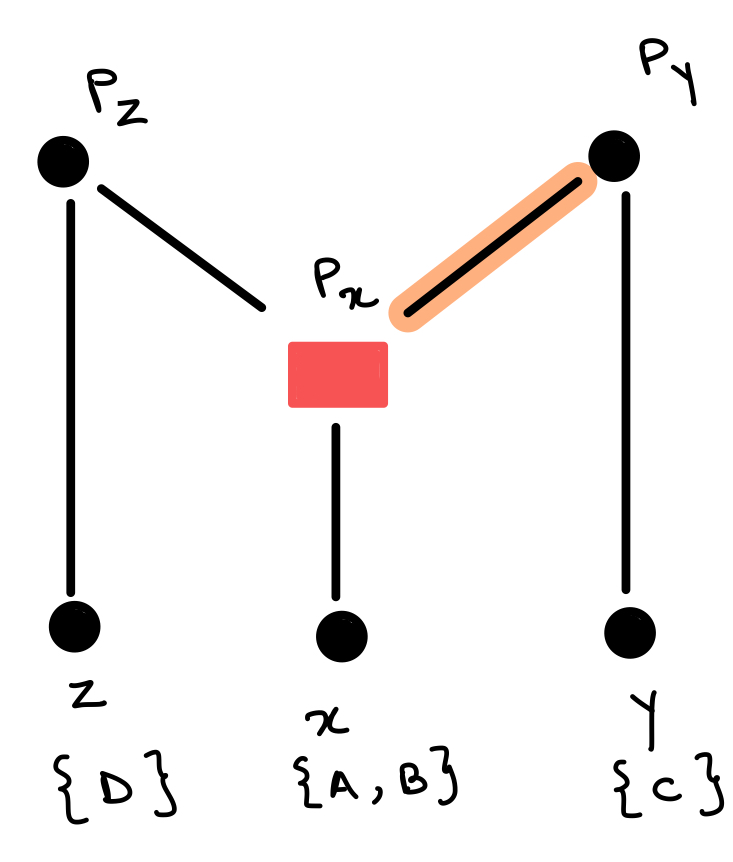
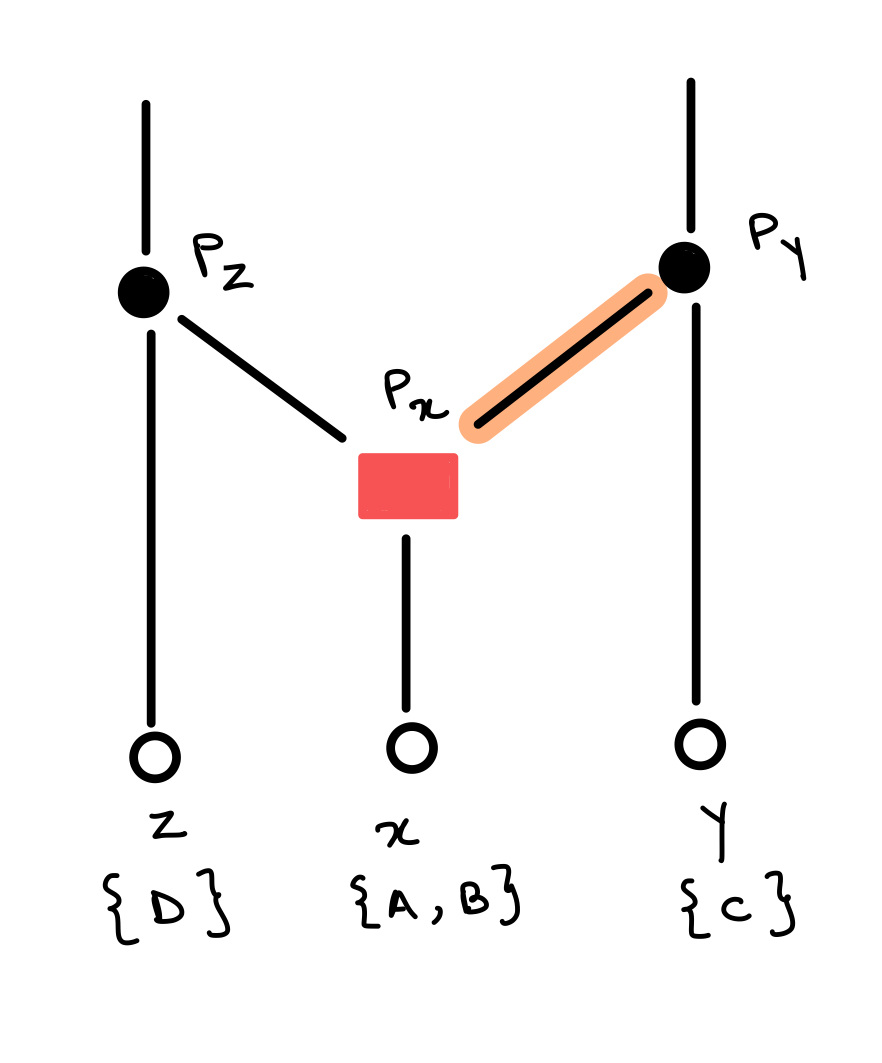
fix ret cherry definition

diff --git a/index.html b/index.html
@@ -84,7 +84,14 @@
           />
         </section>
 
-        <!-- Add vertex degree constraints -->
+        <section data-auto-animate>
+          <h3>Phylogenetic Networks</h3>
+          <p>
+            A network is a graph $G = (V,E,\rho)$ with a taxon labelling
+            function $\phi$, that only assings labels to leaf vertices.
+          </p>
+        </section>
+
         <section data-auto-animate>
           <h3>Phylogenetic Networks</h3>
           <p>binary phylogenetic networks</p>
@@ -94,7 +101,7 @@
           <h3>Phylogenetic Networks</h3>
           <p>binary phylogenetic networks</p>
           <ul>
-            <li>The root $\rho$ has out-degree $1$ and in-degree $0$</li>
+            <li>The root only has $1$ child</li>
           </ul>
         </section>
 
@@ -102,8 +109,8 @@
           <h3>Phylogenetic Networks</h3>
           <p>binary phylogenetic networks</p>
           <ul>
-            <li>The root $\rho$ has out-degree $1$ and in-degree $0$</li>
-            <li>Any reticulation $r$ has out-degree $1$ and in-degree $2$</li>
+            <li>The root only has $1$ child</li>
+            <li>Any reticulation $r$ has $2$ parents and $1$ child</li>
           </ul>
         </section>
 
@@ -233,7 +240,7 @@
           <div class="container">
             <img src="./public/simple-cherry.jpeg" width="50%" height="auto" />
             <ul>
-              <li>\( x \) and $ y $ are leaves</li>
+              <li>$x$ and $y$ are leaves</li>
             </ul>
           </div>
         </section>
@@ -250,6 +257,23 @@
         </section>
 
         <section data-auto-animate>
+          <h3>Simply Cherry</h3>
+          <div class="container">
+            <img src="./public/simple-cherry.jpeg" width="50%" height="auto" />
+            <ul>
+              <li>\( x \) and $ y $ are leaves</li>
+              <li>$ p_x $ is a tree vertex</li>
+              <li>$(x,y)$ is a simple cherry</li>
+            </ul>
+          </div>
+        </section>
+
+        <section data-auto-animate>
+          <h3>Reticulated Cherry</h3>
+          <img src="./public/phylo-network.jpeg" width="50%" height="auto" />
+        </section>
+
+        <section data-auto-animate>
           <h3>Reticulated Cherry</h3>
           <img src="./public/ret-cherry.jpeg" width="50%" height="auto" />
         </section>
@@ -259,8 +283,37 @@
           <div class="container">
             <img src="./public/ret-cherry.jpeg" width="50%" height="auto" />
             <ul>
-              <li>$ x $ and $ y $ are leaves</li>
+              <li>$ x $, $ y $ and $z$ are leaves</li>
               <li>$ p_x $ is a reticulation</li>
+            </ul>
+          </div>
+        </section>
+
+        <section data-auto-animate>
+          <h3>Reticulated Cherry</h3>
+          <div class="container">
+            <img src="./public/ret-cherry-y.jpeg" width="50%" height="auto" />
+          </div>
+        </section>
+
+        <section data-auto-animate>
+          <h3>Reticulated Cherry</h3>
+          <div class="container">
+            <img src="./public/ret-cherry-y.jpeg" width="50%" height="auto" />
+            <ul>
+              <li>$(x,y)$ is the reticulated cherry</li>
+              <li>$(p_y, p_x)$ is the middle edge</li>
+            </ul>
+          </div>
+        </section>
+
+        <section data-auto-animate>
+          <h3>Reticulated Cherry</h3>
+          <div class="container">
+            <img src="./public/ret-cherry-z.jpeg" width="50%" height="auto" />
+            <ul>
+              <li>$(x,z)$ is the reticulated cherry</li>
+              <li>$(p_z, p_x)$ is the middle edge</li>
             </ul>
           </div>
         </section>
@@ -280,15 +333,24 @@
 
         <section data-auto-animate>
           <h3>Simple Cherry</h3>
+          <img
+            src="./public/simply-cherry-picked1.jpeg"
+            width="50%"
+            height="auto"
+          />
+        </section>
+
+        <section data-auto-animate>
+          <h3>Simple Cherry</h3>
           <div class="container">
             <img
-              src="./public/simple-cherry-taxa.jpeg"
+              src="./public/simply-cherry-picked1.jpeg"
               width="50%"
               height="auto"
             />
 
             <img
-              src="./public/simple-cherry-picked.jpeg"
+              src="./public/simply-cherry-picked2.jpeg"
               width="50%"
               height="auto"
             />
@@ -312,24 +374,19 @@
 
         <section data-auto-animate>
           <h3>Reticulated Cherry</h3>
+          <img src="./public/ret-cherry-del.jpeg" width="50%" height="auto" />
+        </section>
+
+        <section data-auto-animate>
+          <h3>Reticulated Cherry</h3>
           <div class="container">
+            <img src="./public/ret-cherry-del.jpeg" width="50%" height="auto" />
             <img
-              src="./public/ret-cherry-taxa3.jpeg"
+              src="./public/ret-cherry-del2.jpeg"
               width="50%"
               height="auto"
             />
-
-            <img src="./public/ret-cherry-del.jpeg" width="50%" height="auto" />
           </div>
-        </section>
-
-        <section>
-          <h3>Reticulated Cherry</h3>
-          <img
-            src="./public/ret-cherry-reduced.jpeg"
-            width="50%"
-            height="auto"
-          />
         </section>
 
         <section data-transition-speed="zoom">
@@ -356,8 +413,20 @@
           <img src="./public/orchard-4.png" width="60%" height="60%" />
         </section>
 
-        <section data-transition-speed="fast">
+        <section data-auto-animate>
           <h3>Orchard Networks</h3>
+          <p>
+            Phylogenetic networks that can be reduced to a single leaf using
+            cherry picking operations
+          </p>
+        </section>
+
+        <section data-auto-animate>
+          <h3>Orchard Networks</h3>
+          <p>
+            Phylogenetic networks that can be reduced to a single leaf using
+            cherry picking operations
+          </p>
           <p>Subnetworks of orchard networks are also orchard networks</p>
         </section>
 
